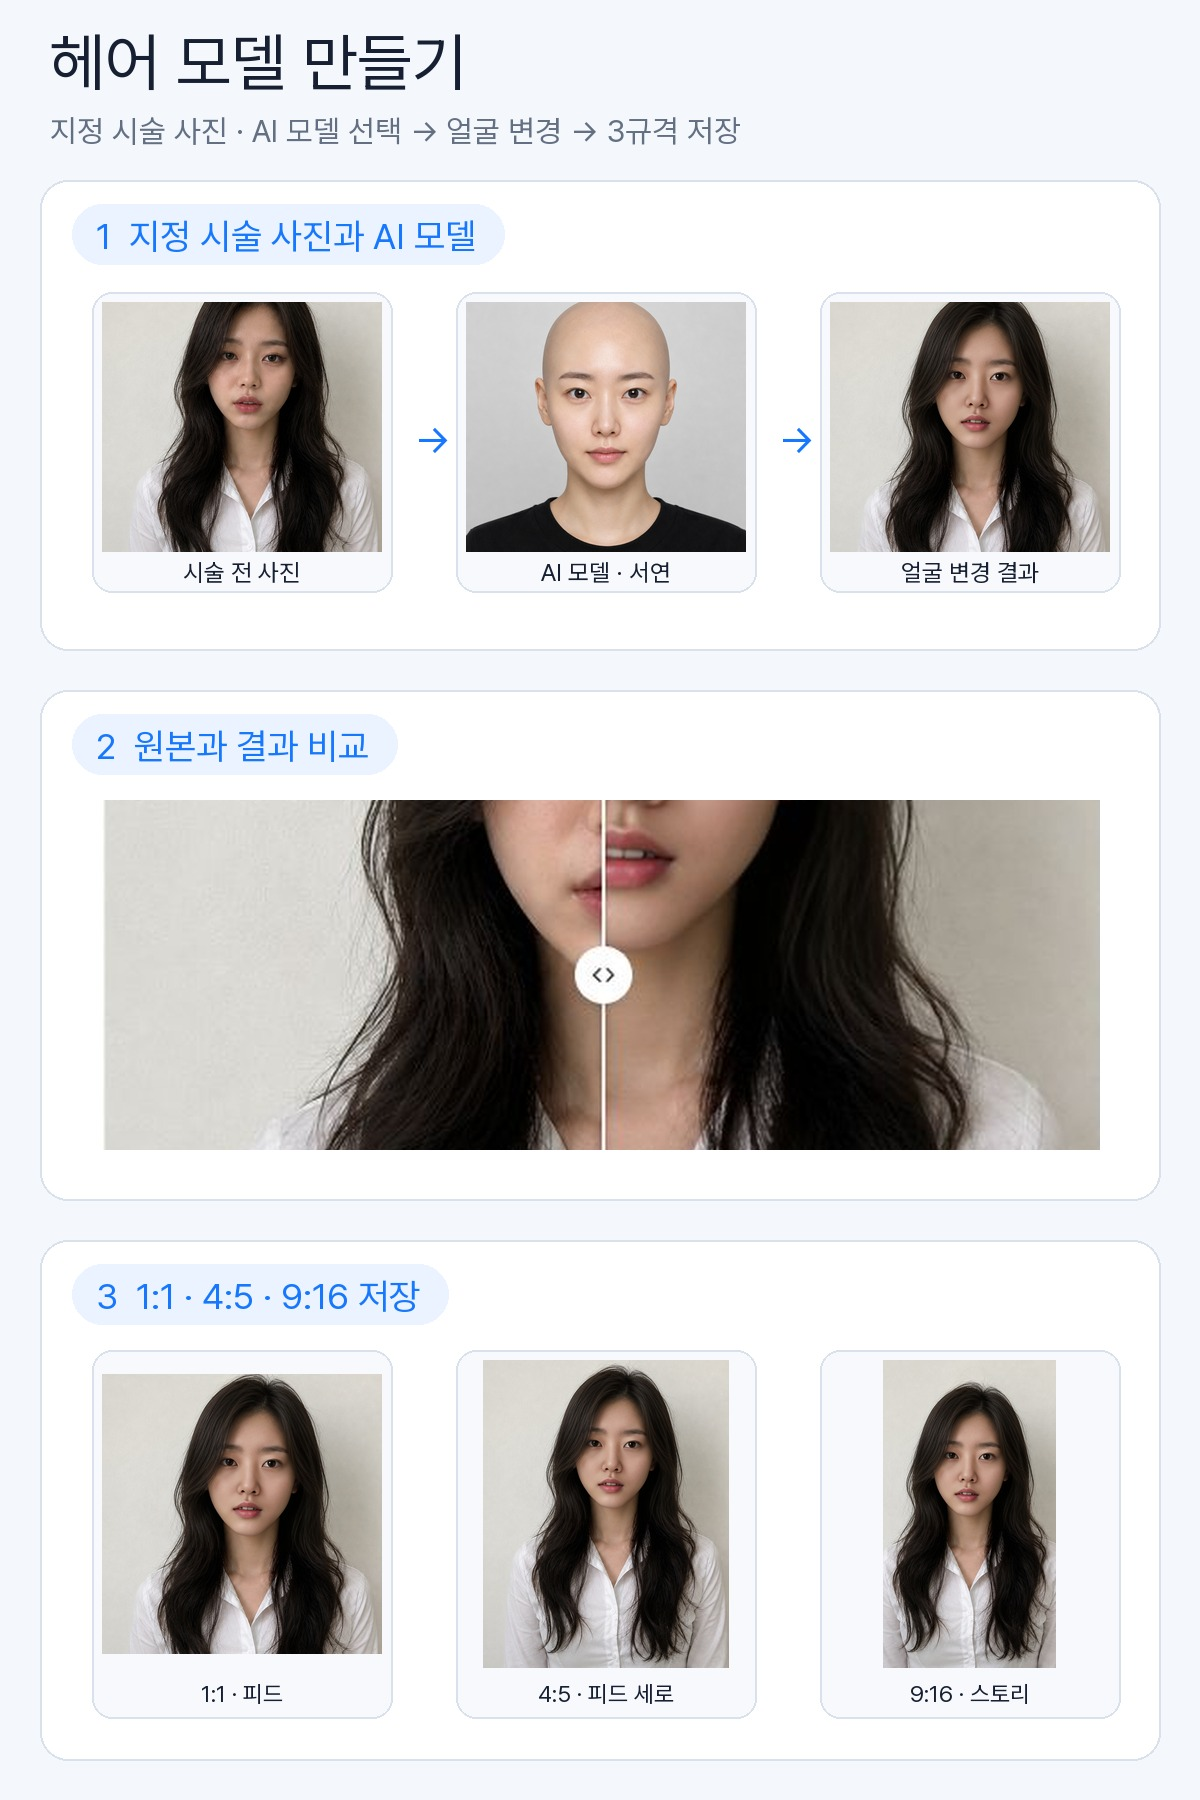
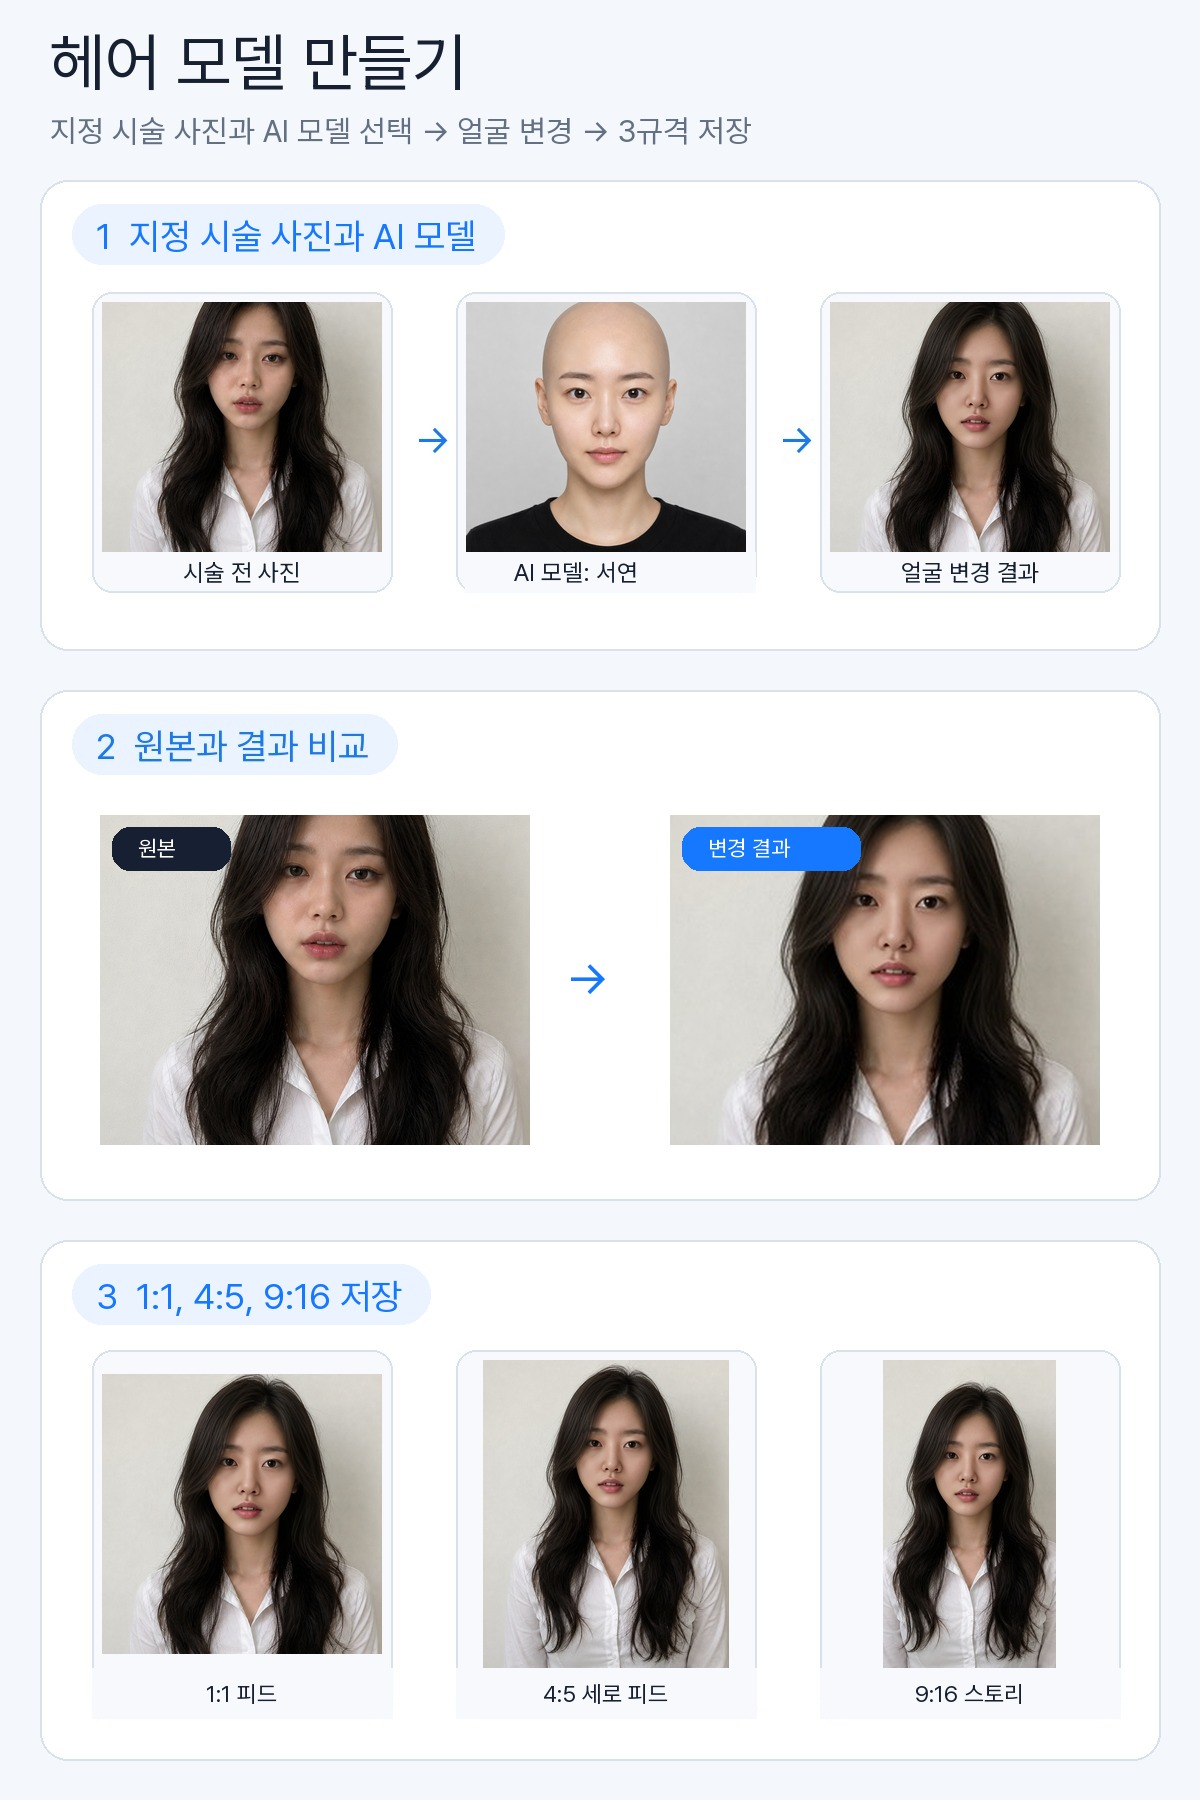
docs: improve MVP visual readability

diff --git a/README.md b/README.md
@@ -39,7 +39,7 @@
 |---|---|---|
 | 고객 얼굴 때문에 시술 사진을 못 올린다 | **헤어 모델 만들기** (`/face-swap`) | 얼굴을 가상 인물로 바꾼 홍보 사진, 채널별 3규격 |
 | 블로그 글쓰기는 시간과 손이 많이 간다 | **간단 블로그 글쓰기** (`/generate/blog`) | 시술 정보 입력 → 검색 키워드를 반영한 블로그 글 |
-| 영상 편집을 배워야 한다 | **간편 릴스 만들기** (`/generate/shorts`) | 시술 영상 → 자막·얼굴 블러 포함 9:16 숏폼 |
+| 영상 편집을 배워야 한다 | **간편 릴스 만들기** (`/generate/shorts`) | 시술 영상 → 자막과 얼굴 블러를 포함한 9:16 숏폼 |
 
 ### 헤어 모델 만들기
 
@@ -57,7 +57,7 @@
 
 - 화면에서 요청을 보내면 백엔드가 기능에 맞는 처리 과정으로 전달합니다. 얼굴 변경은 단일 GPU 워커 큐가 순차 처리하고, 숏폼은 별도 작업으로 접수하고 CPU 인코더가 한 번에 하나씩 처리합니다. 블로그는 작성과 검수를 한 요청에서 연속 실행합니다.
 - **얼굴 변경**은 두 모드입니다. 참조 얼굴 모드(가상 인물 53명 중 선택)는 서버에서 실행되는 로컬 AI 모델이 처리합니다. 프롬프트 모드(스타일 문장 지정)는 원본 전체 대신 얼굴 중심 크롭(주변 여백 포함)과 편집 마스크를 OpenAI 이미지 편집 API로 전송해 처리합니다.
-- **블로그 글**은 작성 모델이 만든 글을 상위 검수 모델이 사실·전문 용어·문맥의 모순을 확인하고 필요한 부분만 수정하는 2단계로 생성합니다.
+- **블로그 글**은 작성 모델이 만든 글을 상위 검수 모델이 사실, 전문 용어 및 문맥의 모순을 확인하고 필요한 부분만 수정하는 2단계로 생성합니다.
 - **숏폼**은 사용자가 업로드한 영상을 FFmpeg로 역할과 구간에 맞게 잘라 이어 붙이고, AI 자막과 얼굴 블러를 적용합니다. 영상 2개 이상을 올리고 생성 버튼을 누르면 기본 설정으로 초안을 만들 수 있습니다.
 - 운영: GCP L4 GPU VM 1대, HTTPS(Caddy), `dev` 병합 이후 5분 주기 타이머가 검증 통과 여부를 확인한 뒤 변경된 영역만 자동 배포합니다. 배포 실패는 저장소 이슈로 자동 보고됩니다.
 
@@ -78,7 +78,7 @@ flowchart TD
     API --> SHORTS[숏폼 작업]
     SHORTS --> VIDEO[FFmpeg + AI 자막 + 얼굴 블러]
 
-    LOCAL --> RESULT[결과 저장·반환]
+    LOCAL --> RESULT[결과 저장 및 반환]
     GPT --> RESULT
     REVIEW --> RESULT
     VIDEO --> RESULT
@@ -88,7 +88,7 @@ flowchart TD
 
 - 프론트엔드: Next.js, TypeScript
 - 백엔드: FastAPI, Python
-- AI: Stable Diffusion 계열 얼굴 변경 파이프라인(GPU), OpenAI API(이미지 편집·텍스트 생성·검수), FFmpeg 영상 파이프라인
+- AI: Stable Diffusion 계열 얼굴 변경 파이프라인(GPU), OpenAI API(이미지 편집, 텍스트 생성 및 검수), FFmpeg 영상 파이프라인
 - 인프라: GCP(L4 GPU VM), Caddy, systemd 타이머 기반 자동 배포
 
 ## 직접 실행해 보기
@@ -101,14 +101,14 @@ npm install
 npm run dev
 ```
 
-전체 실행(백엔드·모델 포함)과 환경변수 목록은 각 폴더의 README를 참고하세요. 환경변수는 이름만 문서화하며 값은 저장소에 두지 않습니다.
+전체 실행(백엔드와 모델 포함)과 환경변수 목록은 각 폴더의 README를 참고하세요. 환경변수는 이름만 문서화하며 값은 저장소에 두지 않습니다.
 
 - [frontend/README.md](./frontend/README.md)
 - [backend/README.md](./backend/README.md)
 
 ## 테스트
 
-- 백엔드: pytest(엔진·API), ruff
+- 백엔드: pytest(엔진 및 API), ruff
 - 프론트엔드: lint, production build, `verify:mock`(빌드본에서 접수→폴링→결과 회귀 확인)
 
 ## 팀
@@ -117,21 +117,21 @@ npm run dev
   <tr>
     <td align="center" width="50%">
       <a href="https://github.com/ynow98"><img src="https://github.com/ynow98.png?size=120" width="100" alt="노승원 GitHub 프로필"><br><b>노승원</b></a><br>
-      PM·기획·QA / 서빙·인프라 / 숏폼 기능
+      PM, 기획, QA / 서빙 및 인프라 / 숏폼 기능
     </td>
     <td align="center" width="50%">
       <a href="https://github.com/Rosoomin"><img src="https://github.com/Rosoomin.png?size=120" width="100" alt="노수민 GitHub 프로필"><br><b>노수민</b></a><br>
-      이미지 생성 모델 / 얼굴 변경 백엔드·API 연결
+      이미지 생성 모델 / 얼굴 변경 백엔드와 API 연결
     </td>
   </tr>
   <tr>
     <td align="center" width="50%">
       <a href="https://github.com/qja0707"><img src="https://github.com/qja0707.png?size=120" width="100" alt="박규범 GitHub 프로필"><br><b>박규범</b></a><br>
-      블로그·멀티모달 / 백엔드 공통·인증·저장소 운영
+      블로그와 멀티모달 / 백엔드 공통, 인증 및 저장소 운영
     </td>
     <td align="center" width="50%">
       <a href="https://github.com/twentycherry-gif"><img src="https://github.com/twentycherry-gif.png?size=120" width="100" alt="최혜리 GitHub 프로필"><br><b>최혜리</b></a><br>
-      서비스·UI 화면 설계·구현
+      서비스와 UI 화면 설계 및 구현
     </td>
   </tr>
 </table>
@@ -142,17 +142,17 @@ npm run dev
 - 블로그 검수는 검증한 10개 시나리오 이외의 입력에서 품질을 보장하지 않습니다
 - 숏폼은 서버 메모리와 임시 저장소를 사용하므로 서버가 재시작되면 진행 중인 작업이 사라질 수 있습니다
 - 얼굴 변경은 DB에 작업 상태를 저장하지만, 처리 중 서버가 재시작되면 재시도가 필요합니다
-- GPU가 1장이라 모델 실험·품질 실측과 실제 서비스를 동시에 운영하기 어렵습니다
+- GPU가 1장이라 모델 실험, 품질 실측과 실제 서비스를 동시에 운영하기 어렵습니다
 
 ## 문서
 
 - **최종 보고서**: 제출본 확정 후 링크를 추가합니다 <!-- docs/ 경로 확정 후 링크 -->
 - **협업일지** (GitHub Discussions):
-  [노승원](https://github.com/qja0707/SalonCutAI/discussions?discussions_q=author%3Aynow98+%ED%98%91%EC%97%85%EC%9D%BC%EC%A7%80) ·
-  [박규범](https://github.com/qja0707/SalonCutAI/discussions?discussions_q=author%3Aqja0707+%ED%98%91%EC%97%85%EC%9D%BC%EC%A7%80) ·
-  [최혜리](https://github.com/qja0707/SalonCutAI/discussions?discussions_q=author%3Atwentycherry-gif+%ED%98%91%EC%97%85%EC%9D%BC%EC%A7%80) ·
+  [노승원](https://github.com/qja0707/SalonCutAI/discussions?discussions_q=author%3Aynow98+%ED%98%91%EC%97%85%EC%9D%BC%EC%A7%80),
+  [박규범](https://github.com/qja0707/SalonCutAI/discussions?discussions_q=author%3Aqja0707+%ED%98%91%EC%97%85%EC%9D%BC%EC%A7%80),
+  [최혜리](https://github.com/qja0707/SalonCutAI/discussions?discussions_q=author%3Atwentycherry-gif+%ED%98%91%EC%97%85%EC%9D%BC%EC%A7%80),
   [노수민](https://github.com/qja0707/SalonCutAI/discussions?discussions_q=author%3ARosoomin+%ED%98%91%EC%97%85%EC%9D%BC%EC%A7%80)
-- 파트 보고서: [블로그 글 생성](https://github.com/qja0707/SalonCutAI/discussions/202) · [숏폼·서빙 인프라·PM](https://github.com/qja0707/SalonCutAI/discussions/203) · [서비스·UI](https://github.com/qja0707/SalonCutAI/discussions/205) · [이미지 생성·얼굴 변경](https://github.com/qja0707/SalonCutAI/discussions/223)
+- 파트 보고서: [블로그 글 생성](https://github.com/qja0707/SalonCutAI/discussions/202), [숏폼, 서빙 인프라 및 PM](https://github.com/qja0707/SalonCutAI/discussions/203), [서비스와 UI](https://github.com/qja0707/SalonCutAI/discussions/205), [이미지 생성과 얼굴 변경](https://github.com/qja0707/SalonCutAI/discussions/223)
 
 ## 저장소 구조
 
